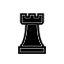
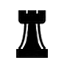
Redid images, removed drop down suggestions
They look purdier now

Changed region(s): [[0.25, 0.1562, 0.75, 0.9062]]

diff --git a/index.html b/index.html
@@ -9,7 +9,7 @@
 	<center>
 	<font face="Merriweather, serif" size="6">
 	<form id="moveInput">
-	Move: <input name="name" type="text" size="25" onkeypress="handleMoveInput(event)" spellcheck="false">
+	Move: <input name="name" type="text" size="25" onkeypress="handleMoveInput(event)" spellcheck="false" autocomplete="off">
 	</form>
 	</font>
 	</center>
@@ -462,7 +462,7 @@ function getTarget(startPosition, endPosition){
 function pawnPromotion(endPosition){
 	if ((endPosition.y === 1 || endPosition.y === 8) && boardy.grid[endPosition.y][endPosition.x] instanceof Pawn){
 		document.getElementById("moveInput").innerHTML =
-		'Piece: <input name="name" type="text" size="20" onkeypress="handlePawnPromotionInput(event)" spellcheck="false">';
+		'Piece: <input name="name" type="text" size="20" onkeypress="handlePawnPromotionInput(event)" spellcheck="false" autocomplete="off">';
 		document.getElementById("moveInput").name.focus();
 		pawnPosition = endPosition;
 		promotingPawn = true;
@@ -500,7 +500,7 @@ function getPawnPromotionInput(){
 				boardy.grid[pawnPosition.y][pawnPosition.x] = new Horse(pawn.owner, pawn.position);	
 			}
 			document.getElementById("moveInput").innerHTML =
-				'Move: <input name="name" type="text" size="20" onkeypress="handleMoveInput(event)" spellcheck="false">';
+				'Move: <input name="name" type="text" size="20" onkeypress="handleMoveInput(event)" spellcheck="false" autocomplete="off">';
 			document.getElementById("moveInput").name.focus();
 			printBoard(boardy);
 			document.getElementById("info1").innerHTML="Last move was " + savedMoveText;
